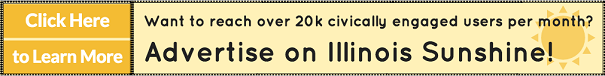
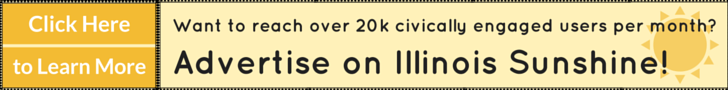
changed ad on homepage

Changed region(s): [[0.0, 0.0, 1.0, 1.0]]

diff --git a/sunshine/templates/index.html b/sunshine/templates/index.html
@@ -1,4 +1,5 @@
 {% extends 'base.html' %}
+://www.youtube.com/agrant@127.0.0.1
 {% from 'macros.html' import header %}
 {% block header_social %}
     {{ header(None, None, request.path) }}
@@ -106,7 +107,7 @@ Every Thursday, we recap the week’s political contributions, top earners, and 
 <br />
 
 <div class='text-center'>
-    <a href='https://cleanwaterstandards.eventbrite.com'><img src='/static/images/icpr_clean_water_ad.png' class='img-responsive center-block'/></a>     
+    <a href='http://www.ilcampaign.org/advertise-with-us/'><img src='/static/images/icpr-interested-in-advertising.png' class='img-responsive center-block'/></a>     
 </div>
 <br />
 
